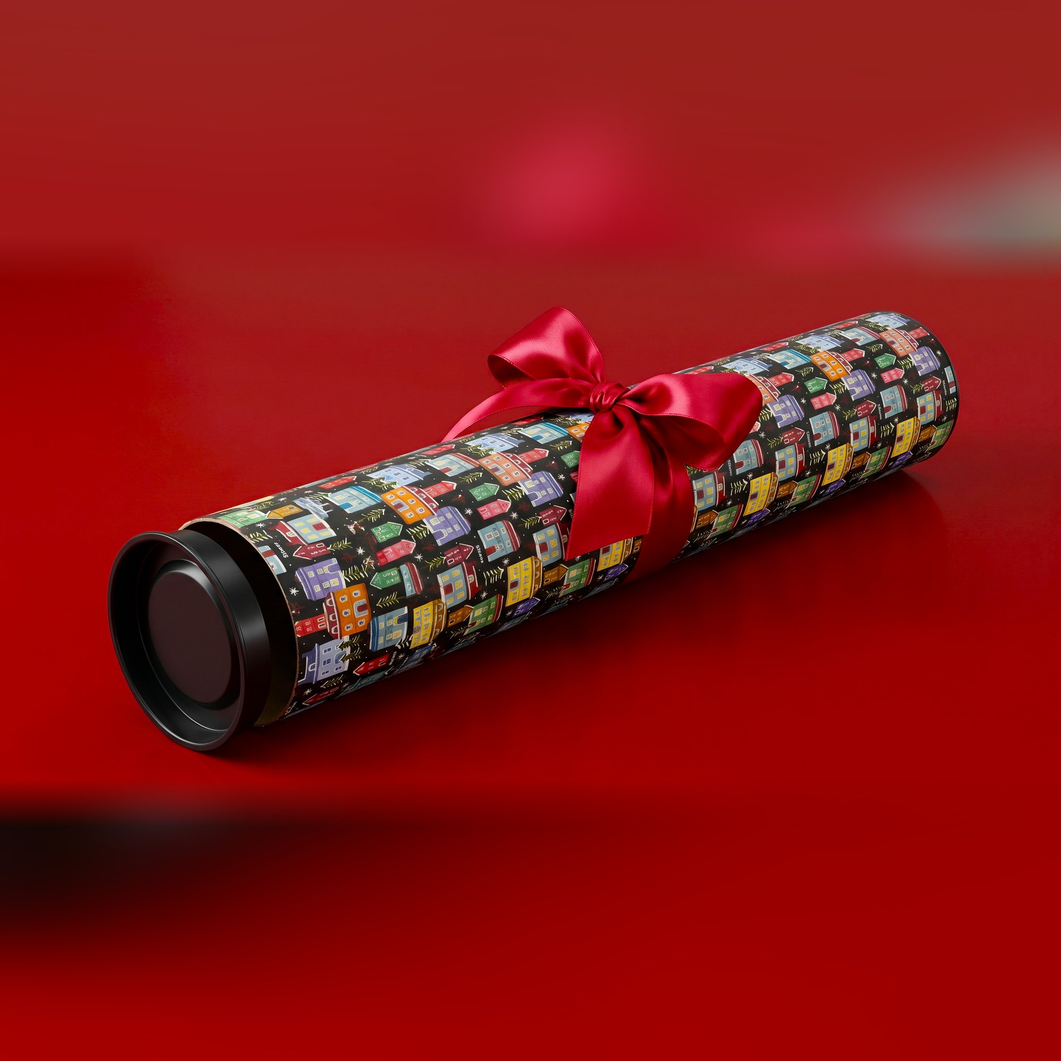
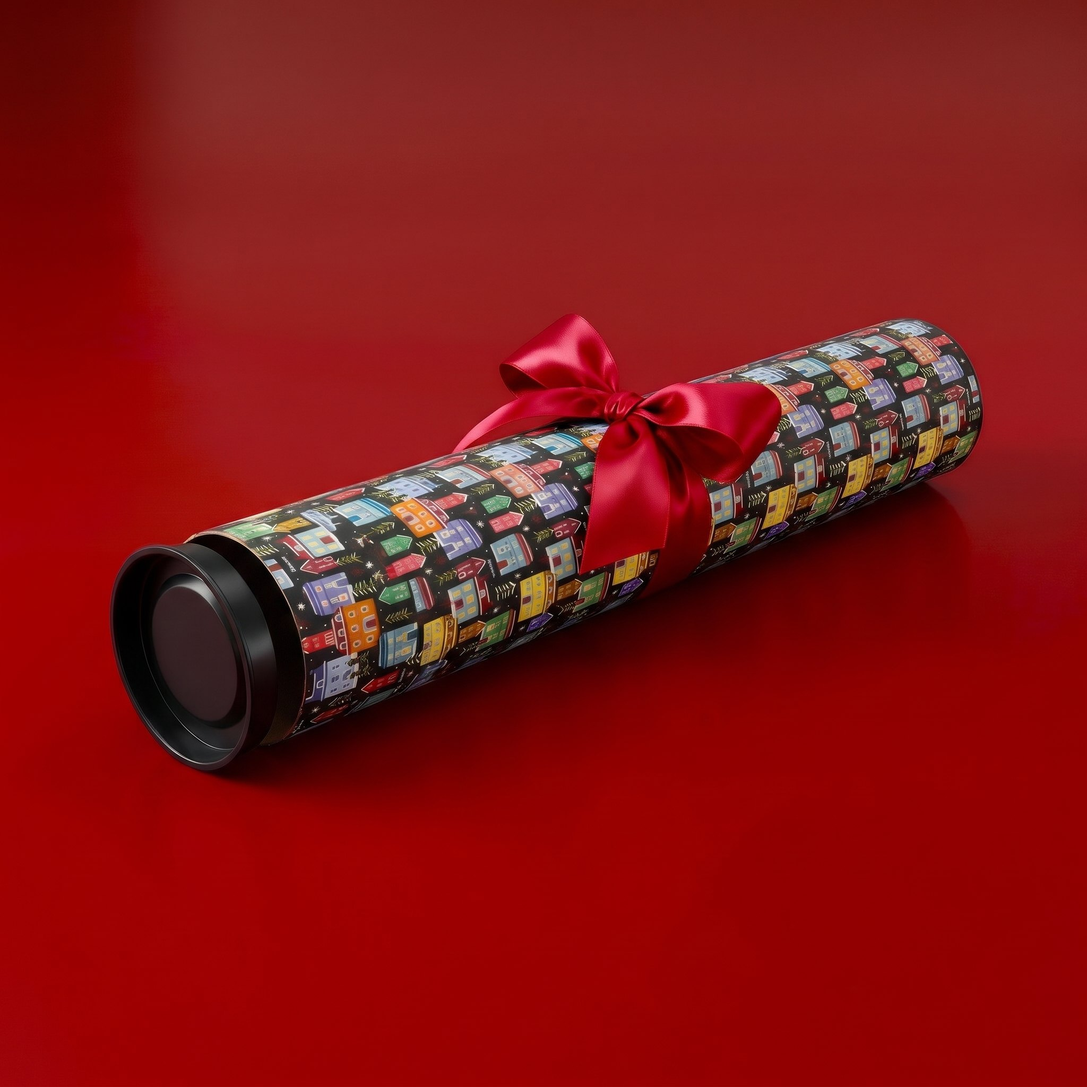
Klon: bez obrázkov s rozmazaným pozadím; Vianočný tubus s fotkou 1:1 z Higgsfieldu
Claude-Session: https://claude.ai/code/session_01Y5PJrs9RnUsi22xdaqrMPo

diff --git a/web-klon/public/muz-energia-a-imunita/index.html b/web-klon/public/muz-energia-a-imunita/index.html
@@ -1233,7 +1233,7 @@ document.addEventListener('DOMContentLoaded',function(){
                                                                                                             <span class="price-save">&ndash;26 %</span>
                                     </span>
               </div>
-        </div><div class="row"><div class="col-sm-12 p-thumbnails-wrapper"><div class="p-thumbnails"><div class="p-thumbnails-inner"><div><a href="/klon/produkty/muz-energia-a-imunita/hero.jpg" class="p-thumbnail highlighted"><img src="/klon/produkty/muz-energia-a-imunita/hero.jpg" alt="Muž 1. Energia a imunita" width="100" height="100" /></a><a href="/klon/produkty/muz-energia-a-imunita/hero.jpg" class="cbox-gal" data-gallery="lightbox[gallery]" data-alt="Muž 1. Energia a imunita" aria-hidden="true" tabindex="-1"></a><a href="/klon/produkty/muz-energia-a-imunita/galeria-01.jpg" class="p-thumbnail"><img src="/klon/produkty/muz-energia-a-imunita/galeria-01.jpg" alt="Muž 1. Energia a imunita" width="100" height="100" /></a><a href="/klon/produkty/muz-energia-a-imunita/galeria-01.jpg" class="cbox-gal" data-gallery="lightbox[gallery]" data-alt="Muž 1. Energia a imunita" aria-hidden="true" tabindex="-1"></a><a href="/klon/produkty/muz-energia-a-imunita/galeria-02.jpg" class="p-thumbnail"><img src="/klon/produkty/muz-energia-a-imunita/galeria-02.jpg" alt="Muž 1. Energia a imunita" width="100" height="100" /></a><a href="/klon/produkty/muz-energia-a-imunita/galeria-02.jpg" class="cbox-gal" data-gallery="lightbox[gallery]" data-alt="Muž 1. Energia a imunita" aria-hidden="true" tabindex="-1"></a><a href="/klon/produkty/muz-energia-a-imunita/galeria-03.jpg" class="p-thumbnail"><img src="/klon/produkty/muz-energia-a-imunita/galeria-03.jpg" alt="Muž 1. Energia a imunita" width="100" height="100" /></a><a href="/klon/produkty/muz-energia-a-imunita/galeria-03.jpg" class="cbox-gal" data-gallery="lightbox[gallery]" data-alt="Muž 1. Energia a imunita" aria-hidden="true" tabindex="-1"></a><a href="/klon/produkty/muz-energia-a-imunita/galeria-04.jpg" class="p-thumbnail"><img src="/klon/produkty/muz-energia-a-imunita/galeria-04.jpg" alt="Muž 1. Energia a imunita" width="100" height="100" /></a><a href="/klon/produkty/muz-energia-a-imunita/galeria-04.jpg" class="cbox-gal" data-gallery="lightbox[gallery]" data-alt="Muž 1. Energia a imunita" aria-hidden="true" tabindex="-1"></a><a href="https://cdn.myshoptet.com/usr/www.silwer.sk/user/shop/big/379_silwer-joj-play-muz-50--komplex---balenie-produktu.png?ff=1&x=1024&y=1024&q=85&ts=6abcc08e&sg=38cb01fe" class="p-thumbnail"><img src="https://cdn.myshoptet.com/usr/www.silwer.sk/user/shop/big/379_silwer-joj-play-muz-50--komplex---balenie-produktu.png?ff=1&x=1024&y=1024&q=85&ts=6abcc08e&sg=38cb01fe" alt="Muž 1. Energia a imunita" width="100" height="100" /></a><a href="https://cdn.myshoptet.com/usr/www.silwer.sk/user/shop/big/379_silwer-joj-play-muz-50--komplex---balenie-produktu.png?ff=1&x=1024&y=1024&q=85&ts=6abcc08e&sg=38cb01fe" class="cbox-gal" data-gallery="lightbox[gallery]" data-alt="Muž 1. Energia a imunita" aria-hidden="true" tabindex="-1"></a><a href="https://cdn.myshoptet.com/usr/www.silwer.sk/user/shop/big/262_omega-3---balenie-produktu.jpg?ff=1&x=1024&y=1024&q=85&ts=6abcc08e&sg=38cb01fe" class="p-thumbnail"><img src="https://cdn.myshoptet.com/usr/www.silwer.sk/user/shop/big/262_omega-3---balenie-produktu.jpg?ff=1&x=1024&y=1024&q=85&ts=6abcc08e&sg=38cb01fe" alt="Muž 1. Energia a imunita" width="100" height="100" /></a><a href="https://cdn.myshoptet.com/usr/www.silwer.sk/user/shop/big/262_omega-3---balenie-produktu.jpg?ff=1&x=1024&y=1024&q=85&ts=6abcc08e&sg=38cb01fe" class="cbox-gal" data-gallery="lightbox[gallery]" data-alt="Muž 1. Energia a imunita" aria-hidden="true" tabindex="-1"></a><a href="https://cdn.myshoptet.com/usr/www.silwer.sk/user/shop/big/107_tribulus-50--balenie-produktu.png?ff=1&x=1024&y=1024&q=85&ts=6abcc08d&sg=38cb01fe" class="p-thumbnail"><img src="https://cdn.myshoptet.com/usr/www.silwer.sk/user/shop/big/107_tribulus-50--balenie-produktu.png?ff=1&x=1024&y=1024&q=85&ts=6abcc08d&sg=38cb01fe" alt="Muž 1. Energia a imunita" width="100" height="100" /></a><a href="https://cdn.myshoptet.com/usr/www.silwer.sk/user/shop/big/107_tribulus-50--balenie-produktu.png?ff=1&x=1024&y=1024&q=85&ts=6abcc08d&sg=38cb01fe" class="cbox-gal" data-gallery="lightbox[gallery]" data-alt="Muž 1. Energia a imunita" aria-hidden="true" tabindex="-1"></a><a href="https://cdn.myshoptet.com/usr/www.silwer.sk/user/shop/big/68_vitamin-c-zinok---balenie-produktu.png?ff=1&x=1024&y=1024&q=85&ts=6abcc08d&sg=38cb01fe" class="p-thumbnail"><img src="https://cdn.myshoptet.com/usr/www.silwer.sk/user/shop/big/68_vitamin-c-zinok---balenie-produktu.png?ff=1&x=1024&y=1024&q=85&ts=6abcc08d&sg=38cb01fe" alt="Muž 1. Energia a imunita" width="100" height="100" /></a><a href="https://cdn.myshoptet.com/usr/www.silwer.sk/user/shop/big/68_vitamin-c-zinok---balenie-produktu.png?ff=1&x=1024&y=1024&q=85&ts=6abcc08d&sg=38cb01fe" class="cbox-gal" data-gallery="lightbox[gallery]" data-alt="Muž 1. Energia a imunita" aria-hidden="true" tabindex="-1"></a></div></div><a href="#" class="thumbnail-prev"></a><a href="#" class="thumbnail-next"></a></div></div></div>
+        </div><div class="row"><div class="col-sm-12 p-thumbnails-wrapper"><div class="p-thumbnails"><div class="p-thumbnails-inner"><div><a href="/klon/produkty/muz-energia-a-imunita/hero.jpg" class="p-thumbnail highlighted"><img src="/klon/produkty/muz-energia-a-imunita/hero.jpg" alt="Muž 1. Energia a imunita" width="100" height="100" /></a><a href="/klon/produkty/muz-energia-a-imunita/hero.jpg" class="cbox-gal" data-gallery="lightbox[gallery]" data-alt="Muž 1. Energia a imunita" aria-hidden="true" tabindex="-1"></a><a href="/klon/produkty/muz-energia-a-imunita/galeria-01.jpg" class="p-thumbnail"><img src="/klon/produkty/muz-energia-a-imunita/galeria-01.jpg" alt="Muž 1. Energia a imunita" width="100" height="100" /></a><a href="/klon/produkty/muz-energia-a-imunita/galeria-01.jpg" class="cbox-gal" data-gallery="lightbox[gallery]" data-alt="Muž 1. Energia a imunita" aria-hidden="true" tabindex="-1"></a><a href="/klon/produkty/muz-energia-a-imunita/galeria-02.jpg" class="p-thumbnail"><img src="/klon/produkty/muz-energia-a-imunita/galeria-02.jpg" alt="Muž 1. Energia a imunita" width="100" height="100" /></a><a href="/klon/produkty/muz-energia-a-imunita/galeria-02.jpg" class="cbox-gal" data-gallery="lightbox[gallery]" data-alt="Muž 1. Energia a imunita" aria-hidden="true" tabindex="-1"></a><a href="/klon/produkty/muz-energia-a-imunita/galeria-03.jpg" class="p-thumbnail"><img src="/klon/produkty/muz-energia-a-imunita/galeria-03.jpg" alt="Muž 1. Energia a imunita" width="100" height="100" /></a><a href="/klon/produkty/muz-energia-a-imunita/galeria-03.jpg" class="cbox-gal" data-gallery="lightbox[gallery]" data-alt="Muž 1. Energia a imunita" aria-hidden="true" tabindex="-1"></a><a href="https://cdn.myshoptet.com/usr/www.silwer.sk/user/shop/big/379_silwer-joj-play-muz-50--komplex---balenie-produktu.png?ff=1&x=1024&y=1024&q=85&ts=6abcc08e&sg=38cb01fe" class="p-thumbnail"><img src="https://cdn.myshoptet.com/usr/www.silwer.sk/user/shop/big/379_silwer-joj-play-muz-50--komplex---balenie-produktu.png?ff=1&x=1024&y=1024&q=85&ts=6abcc08e&sg=38cb01fe" alt="Muž 1. Energia a imunita" width="100" height="100" /></a><a href="https://cdn.myshoptet.com/usr/www.silwer.sk/user/shop/big/379_silwer-joj-play-muz-50--komplex---balenie-produktu.png?ff=1&x=1024&y=1024&q=85&ts=6abcc08e&sg=38cb01fe" class="cbox-gal" data-gallery="lightbox[gallery]" data-alt="Muž 1. Energia a imunita" aria-hidden="true" tabindex="-1"></a><a href="https://cdn.myshoptet.com/usr/www.silwer.sk/user/shop/big/262_omega-3---balenie-produktu.jpg?ff=1&x=1024&y=1024&q=85&ts=6abcc08e&sg=38cb01fe" class="p-thumbnail"><img src="https://cdn.myshoptet.com/usr/www.silwer.sk/user/shop/big/262_omega-3---balenie-produktu.jpg?ff=1&x=1024&y=1024&q=85&ts=6abcc08e&sg=38cb01fe" alt="Muž 1. Energia a imunita" width="100" height="100" /></a><a href="https://cdn.myshoptet.com/usr/www.silwer.sk/user/shop/big/262_omega-3---balenie-produktu.jpg?ff=1&x=1024&y=1024&q=85&ts=6abcc08e&sg=38cb01fe" class="cbox-gal" data-gallery="lightbox[gallery]" data-alt="Muž 1. Energia a imunita" aria-hidden="true" tabindex="-1"></a><a href="https://cdn.myshoptet.com/usr/www.silwer.sk/user/shop/big/107_tribulus-50--balenie-produktu.png?ff=1&x=1024&y=1024&q=85&ts=6abcc08d&sg=38cb01fe" class="p-thumbnail"><img src="https://cdn.myshoptet.com/usr/www.silwer.sk/user/shop/big/107_tribulus-50--balenie-produktu.png?ff=1&x=1024&y=1024&q=85&ts=6abcc08d&sg=38cb01fe" alt="Muž 1. Energia a imunita" width="100" height="100" /></a><a href="https://cdn.myshoptet.com/usr/www.silwer.sk/user/shop/big/107_tribulus-50--balenie-produktu.png?ff=1&x=1024&y=1024&q=85&ts=6abcc08d&sg=38cb01fe" class="cbox-gal" data-gallery="lightbox[gallery]" data-alt="Muž 1. Energia a imunita" aria-hidden="true" tabindex="-1"></a><a href="https://cdn.myshoptet.com/usr/www.silwer.sk/user/shop/big/68_vitamin-c-zinok---balenie-produktu.png?ff=1&x=1024&y=1024&q=85&ts=6abcc08d&sg=38cb01fe" class="p-thumbnail"><img src="https://cdn.myshoptet.com/usr/www.silwer.sk/user/shop/big/68_vitamin-c-zinok---balenie-produktu.png?ff=1&x=1024&y=1024&q=85&ts=6abcc08d&sg=38cb01fe" alt="Muž 1. Energia a imunita" width="100" height="100" /></a><a href="https://cdn.myshoptet.com/usr/www.silwer.sk/user/shop/big/68_vitamin-c-zinok---balenie-produktu.png?ff=1&x=1024&y=1024&q=85&ts=6abcc08d&sg=38cb01fe" class="cbox-gal" data-gallery="lightbox[gallery]" data-alt="Muž 1. Energia a imunita" aria-hidden="true" tabindex="-1"></a></div></div><a href="#" class="thumbnail-prev"></a><a href="#" class="thumbnail-next"></a></div></div></div>
 
     </div>
 

diff --git a/web-klon/public/muz-pohyb-a-sila/index.html b/web-klon/public/muz-pohyb-a-sila/index.html
@@ -1233,7 +1233,7 @@ document.addEventListener('DOMContentLoaded',function(){
                                                                                                             <span class="price-save">&ndash;27 %</span>
                                     </span>
               </div>
-        </div><div class="row"><div class="col-sm-12 p-thumbnails-wrapper"><div class="p-thumbnails"><div class="p-thumbnails-inner"><div><a href="/klon/produkty/muz-pohyb-a-sila/hero.jpg" class="p-thumbnail highlighted"><img src="/klon/produkty/muz-pohyb-a-sila/hero.jpg" alt="Muž 2. Pohyb a sila" width="100" height="100" /></a><a href="/klon/produkty/muz-pohyb-a-sila/hero.jpg" class="cbox-gal" data-gallery="lightbox[gallery]" data-alt="Muž 2. Pohyb a sila" aria-hidden="true" tabindex="-1"></a><a href="/klon/produkty/muz-pohyb-a-sila/galeria-01.jpg" class="p-thumbnail"><img src="/klon/produkty/muz-pohyb-a-sila/galeria-01.jpg" alt="Muž 2. Pohyb a sila" width="100" height="100" /></a><a href="/klon/produkty/muz-pohyb-a-sila/galeria-01.jpg" class="cbox-gal" data-gallery="lightbox[gallery]" data-alt="Muž 2. Pohyb a sila" aria-hidden="true" tabindex="-1"></a><a href="/klon/produkty/muz-pohyb-a-sila/galeria-02.jpg" class="p-thumbnail"><img src="/klon/produkty/muz-pohyb-a-sila/galeria-02.jpg" alt="Muž 2. Pohyb a sila" width="100" height="100" /></a><a href="/klon/produkty/muz-pohyb-a-sila/galeria-02.jpg" class="cbox-gal" data-gallery="lightbox[gallery]" data-alt="Muž 2. Pohyb a sila" aria-hidden="true" tabindex="-1"></a><a href="/klon/produkty/muz-pohyb-a-sila/galeria-03.jpg" class="p-thumbnail"><img src="/klon/produkty/muz-pohyb-a-sila/galeria-03.jpg" alt="Muž 2. Pohyb a sila" width="100" height="100" /></a><a href="/klon/produkty/muz-pohyb-a-sila/galeria-03.jpg" class="cbox-gal" data-gallery="lightbox[gallery]" data-alt="Muž 2. Pohyb a sila" aria-hidden="true" tabindex="-1"></a><a href="/klon/produkty/muz-pohyb-a-sila/galeria-04.jpg" class="p-thumbnail"><img src="/klon/produkty/muz-pohyb-a-sila/galeria-04.jpg" alt="Muž 2. Pohyb a sila" width="100" height="100" /></a><a href="/klon/produkty/muz-pohyb-a-sila/galeria-04.jpg" class="cbox-gal" data-gallery="lightbox[gallery]" data-alt="Muž 2. Pohyb a sila" aria-hidden="true" tabindex="-1"></a><a href="https://cdn.myshoptet.com/usr/www.silwer.sk/user/shop/big/379_silwer-joj-play-muz-50--komplex---balenie-produktu.png?ff=1&x=1024&y=1024&q=85&ts=6abcc08e&sg=38cb01fe" class="p-thumbnail"><img src="https://cdn.myshoptet.com/usr/www.silwer.sk/user/shop/big/379_silwer-joj-play-muz-50--komplex---balenie-produktu.png?ff=1&x=1024&y=1024&q=85&ts=6abcc08e&sg=38cb01fe" alt="Muž 2. Pohyb a sila" width="100" height="100" /></a><a href="https://cdn.myshoptet.com/usr/www.silwer.sk/user/shop/big/379_silwer-joj-play-muz-50--komplex---balenie-produktu.png?ff=1&x=1024&y=1024&q=85&ts=6abcc08e&sg=38cb01fe" class="cbox-gal" data-gallery="lightbox[gallery]" data-alt="Muž 2. Pohyb a sila" aria-hidden="true" tabindex="-1"></a><a href="https://cdn.myshoptet.com/usr/www.silwer.sk/user/shop/big/140_klby-kosti-chrupavky---balenie-produktu.png?ff=1&x=1024&y=1024&q=85&ts=6abcc08e&sg=38cb01fe" class="p-thumbnail"><img src="https://cdn.myshoptet.com/usr/www.silwer.sk/user/shop/big/140_klby-kosti-chrupavky---balenie-produktu.png?ff=1&x=1024&y=1024&q=85&ts=6abcc08e&sg=38cb01fe" alt="Muž 2. Pohyb a sila" width="100" height="100" /></a><a href="https://cdn.myshoptet.com/usr/www.silwer.sk/user/shop/big/140_klby-kosti-chrupavky---balenie-produktu.png?ff=1&x=1024&y=1024&q=85&ts=6abcc08e&sg=38cb01fe" class="cbox-gal" data-gallery="lightbox[gallery]" data-alt="Muž 2. Pohyb a sila" aria-hidden="true" tabindex="-1"></a><a href="https://cdn.myshoptet.com/usr/www.silwer.sk/user/shop/big/131_koenzym-q10---balenie-produktu.png?ff=1&x=1024&y=1024&q=85&ts=6abcc08e&sg=38cb01fe" class="p-thumbnail"><img src="https://cdn.myshoptet.com/usr/www.silwer.sk/user/shop/big/131_koenzym-q10---balenie-produktu.png?ff=1&x=1024&y=1024&q=85&ts=6abcc08e&sg=38cb01fe" alt="Muž 2. Pohyb a sila" width="100" height="100" /></a><a href="https://cdn.myshoptet.com/usr/www.silwer.sk/user/shop/big/131_koenzym-q10---balenie-produktu.png?ff=1&x=1024&y=1024&q=85&ts=6abcc08e&sg=38cb01fe" class="cbox-gal" data-gallery="lightbox[gallery]" data-alt="Muž 2. Pohyb a sila" aria-hidden="true" tabindex="-1"></a><a href="https://cdn.myshoptet.com/usr/www.silwer.sk/user/shop/big/211_magnezium-glycinat-550-mg-super-forte-plus---balenie-produktu.png?ff=1&x=1024&y=1024&q=85&ts=6abcc08e&sg=38cb01fe" class="p-thumbnail"><img src="https://cdn.myshoptet.com/usr/www.silwer.sk/user/shop/big/211_magnezium-glycinat-550-mg-super-forte-plus---balenie-produktu.png?ff=1&x=1024&y=1024&q=85&ts=6abcc08e&sg=38cb01fe" alt="Muž 2. Pohyb a sila" width="100" height="100" /></a><a href="https://cdn.myshoptet.com/usr/www.silwer.sk/user/shop/big/211_magnezium-glycinat-550-mg-super-forte-plus---balenie-produktu.png?ff=1&x=1024&y=1024&q=85&ts=6abcc08e&sg=38cb01fe" class="cbox-gal" data-gallery="lightbox[gallery]" data-alt="Muž 2. Pohyb a sila" aria-hidden="true" tabindex="-1"></a></div></div><a href="#" class="thumbnail-prev"></a><a href="#" class="thumbnail-next"></a></div></div></div>
+        </div><div class="row"><div class="col-sm-12 p-thumbnails-wrapper"><div class="p-thumbnails"><div class="p-thumbnails-inner"><div><a href="/klon/produkty/muz-pohyb-a-sila/hero.jpg" class="p-thumbnail highlighted"><img src="/klon/produkty/muz-pohyb-a-sila/hero.jpg" alt="Muž 2. Pohyb a sila" width="100" height="100" /></a><a href="/klon/produkty/muz-pohyb-a-sila/hero.jpg" class="cbox-gal" data-gallery="lightbox[gallery]" data-alt="Muž 2. Pohyb a sila" aria-hidden="true" tabindex="-1"></a><a href="/klon/produkty/muz-pohyb-a-sila/galeria-01.jpg" class="p-thumbnail"><img src="/klon/produkty/muz-pohyb-a-sila/galeria-01.jpg" alt="Muž 2. Pohyb a sila" width="100" height="100" /></a><a href="/klon/produkty/muz-pohyb-a-sila/galeria-01.jpg" class="cbox-gal" data-gallery="lightbox[gallery]" data-alt="Muž 2. Pohyb a sila" aria-hidden="true" tabindex="-1"></a><a href="/klon/produkty/muz-pohyb-a-sila/galeria-02.jpg" class="p-thumbnail"><img src="/klon/produkty/muz-pohyb-a-sila/galeria-02.jpg" alt="Muž 2. Pohyb a sila" width="100" height="100" /></a><a href="/klon/produkty/muz-pohyb-a-sila/galeria-02.jpg" class="cbox-gal" data-gallery="lightbox[gallery]" data-alt="Muž 2. Pohyb a sila" aria-hidden="true" tabindex="-1"></a><a href="/klon/produkty/muz-pohyb-a-sila/galeria-03.jpg" class="p-thumbnail"><img src="/klon/produkty/muz-pohyb-a-sila/galeria-03.jpg" alt="Muž 2. Pohyb a sila" width="100" height="100" /></a><a href="/klon/produkty/muz-pohyb-a-sila/galeria-03.jpg" class="cbox-gal" data-gallery="lightbox[gallery]" data-alt="Muž 2. Pohyb a sila" aria-hidden="true" tabindex="-1"></a><a href="https://cdn.myshoptet.com/usr/www.silwer.sk/user/shop/big/379_silwer-joj-play-muz-50--komplex---balenie-produktu.png?ff=1&x=1024&y=1024&q=85&ts=6abcc08e&sg=38cb01fe" class="p-thumbnail"><img src="https://cdn.myshoptet.com/usr/www.silwer.sk/user/shop/big/379_silwer-joj-play-muz-50--komplex---balenie-produktu.png?ff=1&x=1024&y=1024&q=85&ts=6abcc08e&sg=38cb01fe" alt="Muž 2. Pohyb a sila" width="100" height="100" /></a><a href="https://cdn.myshoptet.com/usr/www.silwer.sk/user/shop/big/379_silwer-joj-play-muz-50--komplex---balenie-produktu.png?ff=1&x=1024&y=1024&q=85&ts=6abcc08e&sg=38cb01fe" class="cbox-gal" data-gallery="lightbox[gallery]" data-alt="Muž 2. Pohyb a sila" aria-hidden="true" tabindex="-1"></a><a href="https://cdn.myshoptet.com/usr/www.silwer.sk/user/shop/big/140_klby-kosti-chrupavky---balenie-produktu.png?ff=1&x=1024&y=1024&q=85&ts=6abcc08e&sg=38cb01fe" class="p-thumbnail"><img src="https://cdn.myshoptet.com/usr/www.silwer.sk/user/shop/big/140_klby-kosti-chrupavky---balenie-produktu.png?ff=1&x=1024&y=1024&q=85&ts=6abcc08e&sg=38cb01fe" alt="Muž 2. Pohyb a sila" width="100" height="100" /></a><a href="https://cdn.myshoptet.com/usr/www.silwer.sk/user/shop/big/140_klby-kosti-chrupavky---balenie-produktu.png?ff=1&x=1024&y=1024&q=85&ts=6abcc08e&sg=38cb01fe" class="cbox-gal" data-gallery="lightbox[gallery]" data-alt="Muž 2. Pohyb a sila" aria-hidden="true" tabindex="-1"></a><a href="https://cdn.myshoptet.com/usr/www.silwer.sk/user/shop/big/131_koenzym-q10---balenie-produktu.png?ff=1&x=1024&y=1024&q=85&ts=6abcc08e&sg=38cb01fe" class="p-thumbnail"><img src="https://cdn.myshoptet.com/usr/www.silwer.sk/user/shop/big/131_koenzym-q10---balenie-produktu.png?ff=1&x=1024&y=1024&q=85&ts=6abcc08e&sg=38cb01fe" alt="Muž 2. Pohyb a sila" width="100" height="100" /></a><a href="https://cdn.myshoptet.com/usr/www.silwer.sk/user/shop/big/131_koenzym-q10---balenie-produktu.png?ff=1&x=1024&y=1024&q=85&ts=6abcc08e&sg=38cb01fe" class="cbox-gal" data-gallery="lightbox[gallery]" data-alt="Muž 2. Pohyb a sila" aria-hidden="true" tabindex="-1"></a><a href="https://cdn.myshoptet.com/usr/www.silwer.sk/user/shop/big/211_magnezium-glycinat-550-mg-super-forte-plus---balenie-produktu.png?ff=1&x=1024&y=1024&q=85&ts=6abcc08e&sg=38cb01fe" class="p-thumbnail"><img src="https://cdn.myshoptet.com/usr/www.silwer.sk/user/shop/big/211_magnezium-glycinat-550-mg-super-forte-plus---balenie-produktu.png?ff=1&x=1024&y=1024&q=85&ts=6abcc08e&sg=38cb01fe" alt="Muž 2. Pohyb a sila" width="100" height="100" /></a><a href="https://cdn.myshoptet.com/usr/www.silwer.sk/user/shop/big/211_magnezium-glycinat-550-mg-super-forte-plus---balenie-produktu.png?ff=1&x=1024&y=1024&q=85&ts=6abcc08e&sg=38cb01fe" class="cbox-gal" data-gallery="lightbox[gallery]" data-alt="Muž 2. Pohyb a sila" aria-hidden="true" tabindex="-1"></a></div></div><a href="#" class="thumbnail-prev"></a><a href="#" class="thumbnail-next"></a></div></div></div>
 
     </div>
 

diff --git a/web-klon/public/vianocna-krabicka/index.html b/web-klon/public/vianocna-krabicka/index.html
@@ -1194,7 +1194,7 @@ document.addEventListener('DOMContentLoaded',function(){
     
 
     
-        </div><div class="row"><div class="col-sm-12 p-thumbnails-wrapper"><div class="p-thumbnails"><div class="p-thumbnails-inner"><div><a href="/klon/produkty/vianocna-krabicka/hero.jpg" class="p-thumbnail highlighted"><img src="/klon/produkty/vianocna-krabicka/hero.jpg" alt="Vianočná krabička" width="100" height="100" /></a><a href="/klon/produkty/vianocna-krabicka/hero.jpg" class="cbox-gal" data-gallery="lightbox[gallery]" data-alt="Vianočná krabička" aria-hidden="true" tabindex="-1"></a><a href="/klon/produkty/vianocna-krabicka/galeria-01.jpg" class="p-thumbnail"><img src="/klon/produkty/vianocna-krabicka/galeria-01.jpg" alt="Vianočná krabička" width="100" height="100" /></a><a href="/klon/produkty/vianocna-krabicka/galeria-01.jpg" class="cbox-gal" data-gallery="lightbox[gallery]" data-alt="Vianočná krabička" aria-hidden="true" tabindex="-1"></a><a href="/klon/produkty/vianocna-krabicka/galeria-02.jpg" class="p-thumbnail"><img src="/klon/produkty/vianocna-krabicka/galeria-02.jpg" alt="Vianočná krabička" width="100" height="100" /></a><a href="/klon/produkty/vianocna-krabicka/galeria-02.jpg" class="cbox-gal" data-gallery="lightbox[gallery]" data-alt="Vianočná krabička" aria-hidden="true" tabindex="-1"></a><a href="/klon/produkty/vianocna-krabicka/galeria-03.jpg" class="p-thumbnail"><img src="/klon/produkty/vianocna-krabicka/galeria-03.jpg" alt="Vianočná krabička" width="100" height="100" /></a><a href="/klon/produkty/vianocna-krabicka/galeria-03.jpg" class="cbox-gal" data-gallery="lightbox[gallery]" data-alt="Vianočná krabička" aria-hidden="true" tabindex="-1"></a><a href="/klon/produkty/vianocna-krabicka/galeria-04.jpg" class="p-thumbnail"><img src="/klon/produkty/vianocna-krabicka/galeria-04.jpg" alt="Vianočná krabička" width="100" height="100" /></a><a href="/klon/produkty/vianocna-krabicka/galeria-04.jpg" class="cbox-gal" data-gallery="lightbox[gallery]" data-alt="Vianočná krabička" aria-hidden="true" tabindex="-1"></a><a href="/klon/produkty/vianocna-krabicka/galeria-05.jpg" class="p-thumbnail"><img src="/klon/produkty/vianocna-krabicka/galeria-05.jpg" alt="Vianočná krabička" width="100" height="100" /></a><a href="/klon/produkty/vianocna-krabicka/galeria-05.jpg" class="cbox-gal" data-gallery="lightbox[gallery]" data-alt="Vianočná krabička" aria-hidden="true" tabindex="-1"></a></div></div><a href="#" class="thumbnail-prev"></a><a href="#" class="thumbnail-next"></a></div></div></div>
+        </div><div class="row"><div class="col-sm-12 p-thumbnails-wrapper"><div class="p-thumbnails"><div class="p-thumbnails-inner"><div><a href="/klon/produkty/vianocna-krabicka/hero.jpg" class="p-thumbnail highlighted"><img src="/klon/produkty/vianocna-krabicka/hero.jpg" alt="Vianočná krabička" width="100" height="100" /></a><a href="/klon/produkty/vianocna-krabicka/hero.jpg" class="cbox-gal" data-gallery="lightbox[gallery]" data-alt="Vianočná krabička" aria-hidden="true" tabindex="-1"></a><a href="/klon/produkty/vianocna-krabicka/galeria-01.jpg" class="p-thumbnail"><img src="/klon/produkty/vianocna-krabicka/galeria-01.jpg" alt="Vianočná krabička" width="100" height="100" /></a><a href="/klon/produkty/vianocna-krabicka/galeria-01.jpg" class="cbox-gal" data-gallery="lightbox[gallery]" data-alt="Vianočná krabička" aria-hidden="true" tabindex="-1"></a><a href="/klon/produkty/vianocna-krabicka/galeria-02.jpg" class="p-thumbnail"><img src="/klon/produkty/vianocna-krabicka/galeria-02.jpg" alt="Vianočná krabička" width="100" height="100" /></a><a href="/klon/produkty/vianocna-krabicka/galeria-02.jpg" class="cbox-gal" data-gallery="lightbox[gallery]" data-alt="Vianočná krabička" aria-hidden="true" tabindex="-1"></a></div></div><a href="#" class="thumbnail-prev"></a><a href="#" class="thumbnail-next"></a></div></div></div>
 
     </div>
 

diff --git a/web-klon/public/vianocny-tubus/index.html b/web-klon/public/vianocny-tubus/index.html
@@ -1194,7 +1194,7 @@ document.addEventListener('DOMContentLoaded',function(){
     
 
     
-        </div><div class="row"><div class="col-sm-12 p-thumbnails-wrapper"><div class="p-thumbnails"><div class="p-thumbnails-inner"><div><a href="/klon/produkty/vianocny-tubus/hero.jpg" class="p-thumbnail highlighted"><img src="/klon/produkty/vianocny-tubus/hero.jpg" alt="Vianočný tubus" width="100" height="100" /></a><a href="/klon/produkty/vianocny-tubus/hero.jpg" class="cbox-gal" data-gallery="lightbox[gallery]" data-alt="Vianočný tubus" aria-hidden="true" tabindex="-1"></a><a href="/klon/produkty/vianocny-tubus/galeria-01.jpg" class="p-thumbnail"><img src="/klon/produkty/vianocny-tubus/galeria-01.jpg" alt="Vianočný tubus" width="100" height="100" /></a><a href="/klon/produkty/vianocny-tubus/galeria-01.jpg" class="cbox-gal" data-gallery="lightbox[gallery]" data-alt="Vianočný tubus" aria-hidden="true" tabindex="-1"></a><a href="/klon/produkty/vianocny-tubus/galeria-02.jpg" class="p-thumbnail"><img src="/klon/produkty/vianocny-tubus/galeria-02.jpg" alt="Vianočný tubus" width="100" height="100" /></a><a href="/klon/produkty/vianocny-tubus/galeria-02.jpg" class="cbox-gal" data-gallery="lightbox[gallery]" data-alt="Vianočný tubus" aria-hidden="true" tabindex="-1"></a><a href="/klon/produkty/vianocny-tubus/galeria-03.jpg" class="p-thumbnail"><img src="/klon/produkty/vianocny-tubus/galeria-03.jpg" alt="Vianočný tubus" width="100" height="100" /></a><a href="/klon/produkty/vianocny-tubus/galeria-03.jpg" class="cbox-gal" data-gallery="lightbox[gallery]" data-alt="Vianočný tubus" aria-hidden="true" tabindex="-1"></a></div></div><a href="#" class="thumbnail-prev"></a><a href="#" class="thumbnail-next"></a></div></div></div>
+        </div><div class="row"><div class="col-sm-12 p-thumbnails-wrapper"><div class="p-thumbnails"><div class="p-thumbnails-inner"><div><a href="/klon/produkty/vianocny-tubus/hero.jpg" class="p-thumbnail highlighted"><img src="/klon/produkty/vianocny-tubus/hero.jpg" alt="Vianočný tubus" width="100" height="100" /></a><a href="/klon/produkty/vianocny-tubus/hero.jpg" class="cbox-gal" data-gallery="lightbox[gallery]" data-alt="Vianočný tubus" aria-hidden="true" tabindex="-1"></a><a href="/klon/produkty/vianocny-tubus/galeria-01.jpg" class="p-thumbnail"><img src="/klon/produkty/vianocny-tubus/galeria-01.jpg" alt="Vianočný tubus" width="100" height="100" /></a><a href="/klon/produkty/vianocny-tubus/galeria-01.jpg" class="cbox-gal" data-gallery="lightbox[gallery]" data-alt="Vianočný tubus" aria-hidden="true" tabindex="-1"></a></div></div><a href="#" class="thumbnail-prev"></a><a href="#" class="thumbnail-next"></a></div></div></div>
 
     </div>
 

diff --git a/web-klon/public/vianocny-zlaty-tubus/index.html b/web-klon/public/vianocny-zlaty-tubus/index.html
@@ -1194,7 +1194,10 @@ document.addEventListener('DOMContentLoaded',function(){
     
 
     
-        </div><div class="row"><div class="col-sm-12 p-thumbnails-wrapper"><div class="p-thumbnails"><div class="p-thumbnails-inner"><div><a href="/klon/produkty/vianocny-zlaty-tubus/hero.jpg" class="p-thumbnail highlighted"><img src="/klon/produkty/vianocny-zlaty-tubus/hero.jpg" alt="Vianočný zlatý tubus" width="100" height="100" /></a><a href="/klon/produkty/vianocny-zlaty-tubus/hero.jpg" class="cbox-gal" data-gallery="lightbox[gallery]" data-alt="Vianočný zlatý tubus" aria-hidden="true" tabindex="-1"></a><a href="/klon/produkty/vianocny-zlaty-tubus/galeria-01.jpg" class="p-thumbnail"><img src="/klon/produkty/vianocny-zlaty-tubus/galeria-01.jpg" alt="Vianočný zlatý tubus" width="100" height="100" /></a><a href="/klon/produkty/vianocny-zlaty-tubus/galeria-01.jpg" class="cbox-gal" data-gallery="lightbox[gallery]" data-alt="Vianočný zlatý tubus" aria-hidden="true" tabindex="-1"></a></div></div><a href="#" class="thumbnail-prev"></a><a href="#" class="thumbnail-next"></a></div></div></div>
+        </div>
+
+        <div class="row">
+                    </div>
 
     </div>
 

diff --git a/web-klon/produkty/VIZUALY-vianoce-2026.md b/web-klon/produkty/VIZUALY-vianoce-2026.md
@@ -66,7 +66,9 @@
 5. `fotky/galeria-04.jpg` ← krab dedko v rukach.png
 6. `fotky/galeria-05.jpg` ← krab muz odovzdava.png
 
-Úpravy: štvorcový výrez (kde to kompozícia dovolila), inak doplnené rozmazané pozadie do štvorca; JPG, max. 2000 px, 150–450 kB.
+Úpravy: štvorcový výrez, kde to kompozícia dovolila; JPG, max. 2000 px, 150–450 kB.
+
+**12. 11. 2026:** obrázky s doplneným rozmazaným pozadím (8 ks: scény s ľuďmi, tubusy) sú z galérií vyradené – klient: „nevyzerajú dobre“. Nahradia ich verzie 1:1 rozšírené cez Higgsfield (outpaint, 2 kredity/obrázok, výstup 2048 × 2048). Prvý: Vianočný tubus `galeria-01.jpg` ← tubus cierny cerv masla 1.png. Ktoré ďalšie, vyberie klient.
 
 ## Nepoužité (stiahnuté, ale do galérie nevhodné)
 
